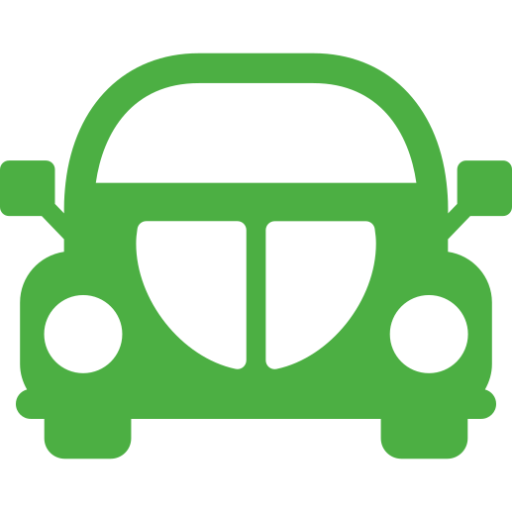
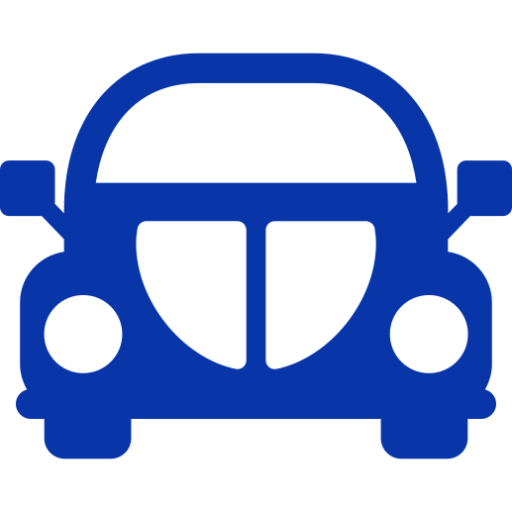
Nuevos cambios

diff --git a/doble_control/lib/Actividades/Curso.dart b/doble_control/lib/Actividades/Curso.dart
@@ -150,11 +150,11 @@ class _Curso extends State<Curso> {
                                 activeColor: AppColors.green,
                                 activeTrackColor: AppColors.green,
                                 activeThumbImage:
-                                AssetImage('assets/images/check.png'),
+                                    AssetImage('assets/images/check.png'),
                                 inactiveTrackColor: AppColors.red,
                                 inactiveThumbColor: AppColors.red,
                                 inactiveThumbImage:
-                                AssetImage('assets/images/close.png'),
+                                    AssetImage('assets/images/close.png'),
                               ),
                             ),
                             Padding(
@@ -433,9 +433,9 @@ class _Curso extends State<Curso> {
             ),
             onPressed: () {
               setState(() {
-                actualizarDias();
                 curso = _cursos[index].curso;
                 _curso = _cursos[index];
+                actualizarDias();
               });
               Navigator.pop(context);
             },
@@ -848,22 +848,51 @@ class _Curso extends State<Curso> {
 
   void actualizarDias() {
     setState(() {
-      dates = [
-        new Fecha(),
-        new Fecha(),
-        new Fecha(),
-        new Fecha(),
-        new Fecha(),
-        new Fecha()
-      ];
-      _fechas = [
-        Strings.iFecha,
-        Strings.iFecha,
-        Strings.iFecha,
-        Strings.iFecha,
-        Strings.iFecha,
-        Strings.iFecha,
-      ];
+      if (_curso.idcurso == 2) {
+        dates = [
+          new Fecha(),
+          new Fecha(),
+          new Fecha(),
+          new Fecha(),
+          new Fecha(),
+          new Fecha()
+        ];
+        _fechas = [
+          Strings.iFecha,
+          Strings.iFecha,
+          Strings.iFecha,
+          Strings.iFecha,
+          Strings.iFecha,
+          Strings.iFecha,
+        ];
+      } else {
+        dates = [
+          new Fecha(),
+          new Fecha(),
+          new Fecha(),
+          new Fecha(),
+          new Fecha(),
+          new Fecha(),
+          new Fecha(),
+          new Fecha(),
+          new Fecha(),
+          new Fecha(),
+          new Fecha()
+        ];
+        _fechas = [
+          Strings.iFecha,
+          Strings.iFecha,
+          Strings.iFecha,
+          Strings.iFecha,
+          Strings.iFecha,
+          Strings.iFecha,
+          Strings.iFecha,
+          Strings.iFecha,
+          Strings.iFecha,
+          Strings.iFecha,
+          Strings.iFecha,
+        ];
+      }
     });
   }
 }

diff --git a/doble_control/lib/Actividades/Principal.dart b/doble_control/lib/Actividades/Principal.dart
@@ -74,14 +74,6 @@ class _Principal extends State<Principal> {
         onWillPop: onBackPress,
         child: Stack(
           children: <Widget>[
-            Container(
-              decoration: new BoxDecoration(
-                image: new DecorationImage(
-                    image: new AssetImage("assets/images/fondo.png"),
-                    fit: BoxFit.none,
-                    repeat: ImageRepeat.repeat),
-              ),
-            ),
             SingleChildScrollView(
               scrollDirection: Axis.horizontal,
               child: Row(
@@ -286,7 +278,7 @@ class _Principal extends State<Principal> {
 
   Container getEmpty(int pos) {
     return Container(
-        width: 400,
+        width: 500,
         margin: new EdgeInsets.symmetric(vertical: 16.0),
         alignment: FractionalOffset.center,
         child: Column(
@@ -296,7 +288,7 @@ class _Principal extends State<Principal> {
               child: getDia(context, pos),
             ),
             Container(
-              margin: EdgeInsets.only(top: 110, bottom: 20),
+              margin: EdgeInsets.only(top: 90, bottom: 20),
               width: 150,
               height: 150,
               decoration: BoxDecoration(
@@ -330,7 +322,7 @@ class _Principal extends State<Principal> {
 
   Widget getLista(BuildContext context, List<Clase> clases, int pos) {
     return Container(
-        width: 400,
+        width: 500,
         child: ListView.builder(
           scrollDirection: Axis.vertical,
           padding: EdgeInsets.only(top: 110),

diff --git a/doble_control/lib/Actividades/Ayuda.dart b/doble_control/lib/Actividades/Ayuda.dart
@@ -119,7 +119,7 @@ class Ayuda extends StatelessWidget {
                           color: Colors.transparent,
                           image: DecorationImage(
                               fit: BoxFit.cover,
-                              image: AssetImage("assets/images/ambos.png")),
+                              image: AssetImage("assets/images/estandar.png")),
                         ),
                       ),
                       SizedBox(
@@ -177,7 +177,7 @@ class Ayuda extends StatelessWidget {
                           color: Colors.transparent,
                           image: DecorationImage(
                               fit: BoxFit.cover,
-                              image: AssetImage("assets/images/estandar.png")),
+                              image: AssetImage("assets/images/ambos.png")),
                         ),
                       ),
                       SizedBox(
@@ -188,7 +188,7 @@ class Ayuda extends StatelessWidget {
                         child: Text(
                           "Ambos Autos",
                           style: TextStyle(
-                              color: AppColors.blue,
+                              color: AppColors.blueRey,
                               fontSize: 16.0,
                               fontFamily: "GoogleSans",
                               fontWeight: FontWeight.bold),

diff --git a/doble_control/lib/Adaptadores/ClaseAdapter.dart b/doble_control/lib/Adaptadores/ClaseAdapter.dart
@@ -175,10 +175,10 @@ class ClaseAdapter extends StatelessWidget {
                           image: DecorationImage(
                               fit: BoxFit.cover,
                               image: clase.idtipoauto == 1
-                                  ? AssetImage("assets/images/ambos.png")
+                                  ? AssetImage("assets/images/estandar.png")
                                   : clase.idtipoauto == 2
                                       ? AssetImage("assets/images/automatico.png")
-                                      : AssetImage("assets/images/estandar.png")),
+                                      : AssetImage("assets/images/ambos.png")),
                         ),
                       ),
                       Container(

diff --git a/doble_control/lib/Actividades/Alumnos.dart b/doble_control/lib/Actividades/Alumnos.dart
@@ -94,7 +94,7 @@ class _Alumnos extends State<Alumnos> {
                     elevation: 5.0,
                     color: Colors.white,
                     child: Container(
-                        width: 300,
+                        width: 500,
                         margin: EdgeInsets.all(10),
                         child: Column(
                           children: <Widget>[
@@ -232,7 +232,7 @@ class _Alumnos extends State<Alumnos> {
           padding: EdgeInsets.all(10),
         ),
         Container(
-          height: 370,
+          height: 500,
           child: ListView.builder(
             itemBuilder: (context, index) {
               Cliente aux = _clientes[index];

diff --git a/doble_control/lib/Herramientas/InteractiveCalendar/CalendarPainter.dart b/doble_control/lib/Herramientas/InteractiveCalendar/CalendarPainter.dart
@@ -255,8 +255,8 @@ class CalendarPainter extends CustomPainter {
         List<CellEvent> _list =
             (data[i]['value'].events as List<Clase>).map((Clase e) {
           Color background = e.idtipoauto == 1
-              ? AppColors.pink
-              : (e.idtipoauto == 2 ? AppColors.blue : AppColors.green);
+              ? AppColors.green
+              : (e.idtipoauto == 2 ? AppColors.pink : AppColors.blueRey);
 
           return CellEvent(
               background: background.withOpacity(

diff --git a/doble_control/lib/Herramientas/appColors.dart b/doble_control/lib/Herramientas/appColors.dart
@@ -7,6 +7,7 @@ class AppColors {
   static const red = Color(0xFFfe4141);
   static const pink = Color(0xFFff5dc8);
   static const blue = Color(0xFF74ad97);
+  static const blueRey = Color(0xFF0836A9);
   static const grey = Color(0xFFc4c4b4);
   static const greyDark = Color(0xFF7e8375);
   static const colorAccent = Color(0xFFf1f9f4);
